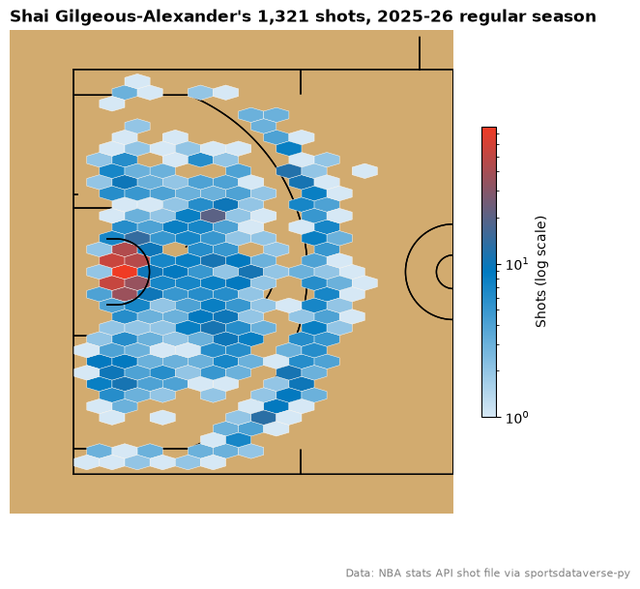
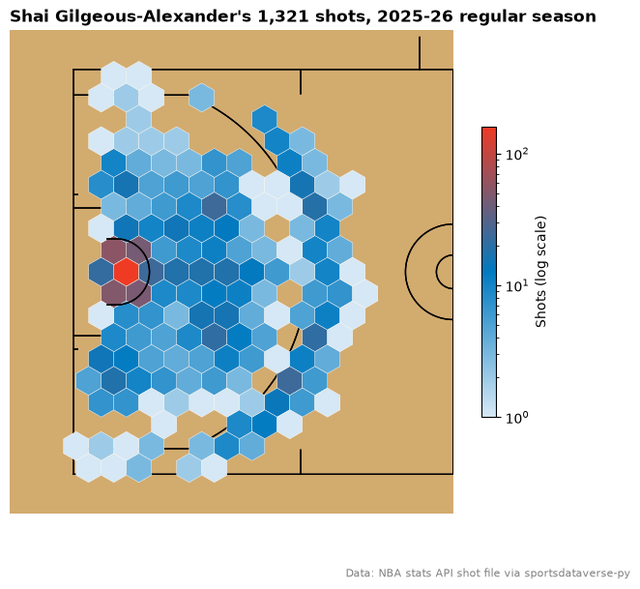
docs: draw the colors cookbook and WNBA shot charts with add_bins (hexagons, then squares)

Changed region(s): [[0.0938, 0.0917, 0.5938, 0.8251], [0.7812, 0.4278, 0.8438, 0.489], [0.7812, 0.2445, 0.8438, 0.275]]

diff --git a/docs/docs/cookbooks/colors-and-themes.md b/docs/docs/cookbooks/colors-and-themes.md
@@ -285,7 +285,7 @@ plt.show()
 PyPalettes' `create_cmap` turns a list of colors into a matplotlib colormap; built from a pale tint and a
 team's two colors, it shades a density chart in that team. Shai Gilgeous-Alexander's shots, from the stats-API
 shot file the SportsDataverse publishes as a GitHub release (no stats.nba.com call), moved onto sportypy's
-court with `court_coords`:
+court with `court_coords`, then binned into 1.8 ft hexagons with `add_bins` (`shape="square"` draws squares):
 
 ```python
 from pypalettes import create_cmap
@@ -297,9 +297,9 @@ cmap = create_cmap(["#d6e8f5", okc_primary, okc_secondary], cmap_type="continuou
 
 fig, ax = plt.subplots(figsize=(7.5, 6.5))
 sdvplot.surface("nba", ax=ax, display_range="defense")
-hb = ax.hexbin(sga["court_x"], sga["court_y"], gridsize=(15, 18), extent=(-47, 0, -25, 25), mincnt=1,
-               bins="log", cmap=cmap, linewidths=0.3, edgecolors="white", zorder=20)  # fmt: skip
-fig.colorbar(hb, ax=ax, shrink=0.6, label="Shots (log scale)")
+sdvplot.add_bins(ax, sga["court_x"], sga["court_y"], radius=1.8, norm="log", cmap=cmap, linewidths=0.3,
+                 edgecolors="white", zorder=20)  # fmt: skip
+fig.colorbar(ax.collections[-1], ax=ax, shrink=0.6, label="Shots (log scale)")
 ax.set_title(f"Shai Gilgeous-Alexander's {sga.height:,} shots, 2025-26 regular season", loc="left", fontweight="bold")
 fig.text(0.99, 0.01, "Data: NBA stats API shot file via sportsdataverse-py", ha="right", fontsize=8, color="grey")
 plt.show()

diff --git a/docs/docs/tutorials/leagues/wnba.md b/docs/docs/tutorials/leagues/wnba.md
@@ -280,7 +280,7 @@ leaders = (
 
 `load_wnba_shots` holds ESPN's shot locations, already in feet on a center-court frame, the same frame as sportypy's
 court, so `sdvplot.court_coords` (for the stats.wnba.com legacy frame) is not needed. Fold the right-basket shots onto
-the left one, then bin them: where Caitlin Clark shot from, on Indiana's court.
+the left one, then bin them into squares with `add_bins`: where Caitlin Clark shot from, on Indiana's court.
 
 ```python
 from matplotlib.colors import LinearSegmentedColormap
@@ -299,19 +299,20 @@ fig, ax = plt.subplots(figsize=(7, 6.5))
 sdvplot.surface("wnba", "IND", display_range="defense", ax=ax)
 red = sdvplot.team_colors("wnba", ["IND"], which="secondary")[0]
 cmap = LinearSegmentedColormap.from_list("indiana", ["#fff4e0", red])
-hexes = ax.hexbin(
+sdvplot.add_bins(
+    ax,
     clark["x"],
     clark["y"],
-    gridsize=(14, 15),
-    extent=(-47, 0, -25, 25),
-    mincnt=1,
-    bins="log",
+    shape="square",  # squares with the area of 2 ft hexagons; drop shape and equal_area for hexagons
+    radius=2,
+    equal_area=True,
+    norm="log",
     cmap=cmap,
     edgecolors="white",
     linewidths=0.4,
     zorder=20,
 )
-fig.colorbar(hexes, ax=ax, shrink=0.6, label="Attempts (log scale)")
+fig.colorbar(ax.collections[-1], ax=ax, shrink=0.6, label="Attempts (log scale)")
 ax.set_title(
     f"Caitlin Clark's field goal attempts, {SEASON} regular season\n"
     f"{clark.height} attempts, {made / clark.height:.1%} made",
